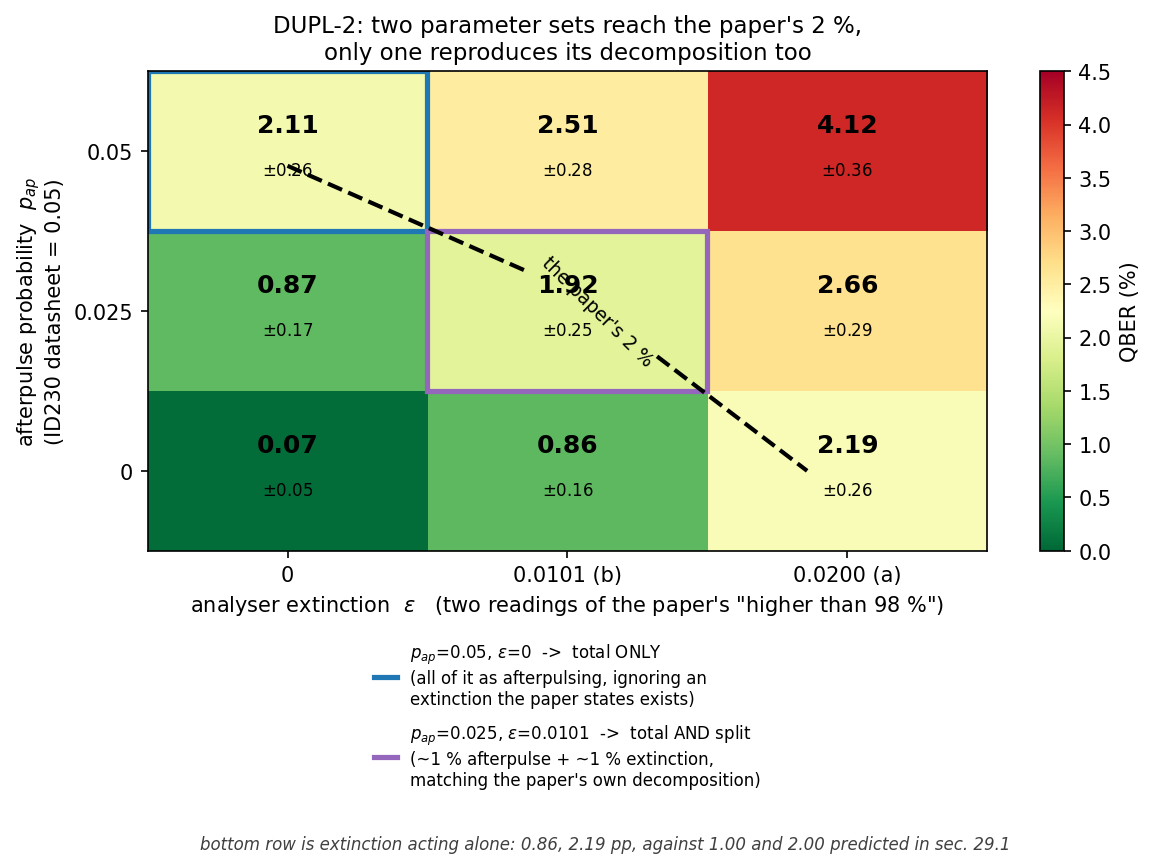
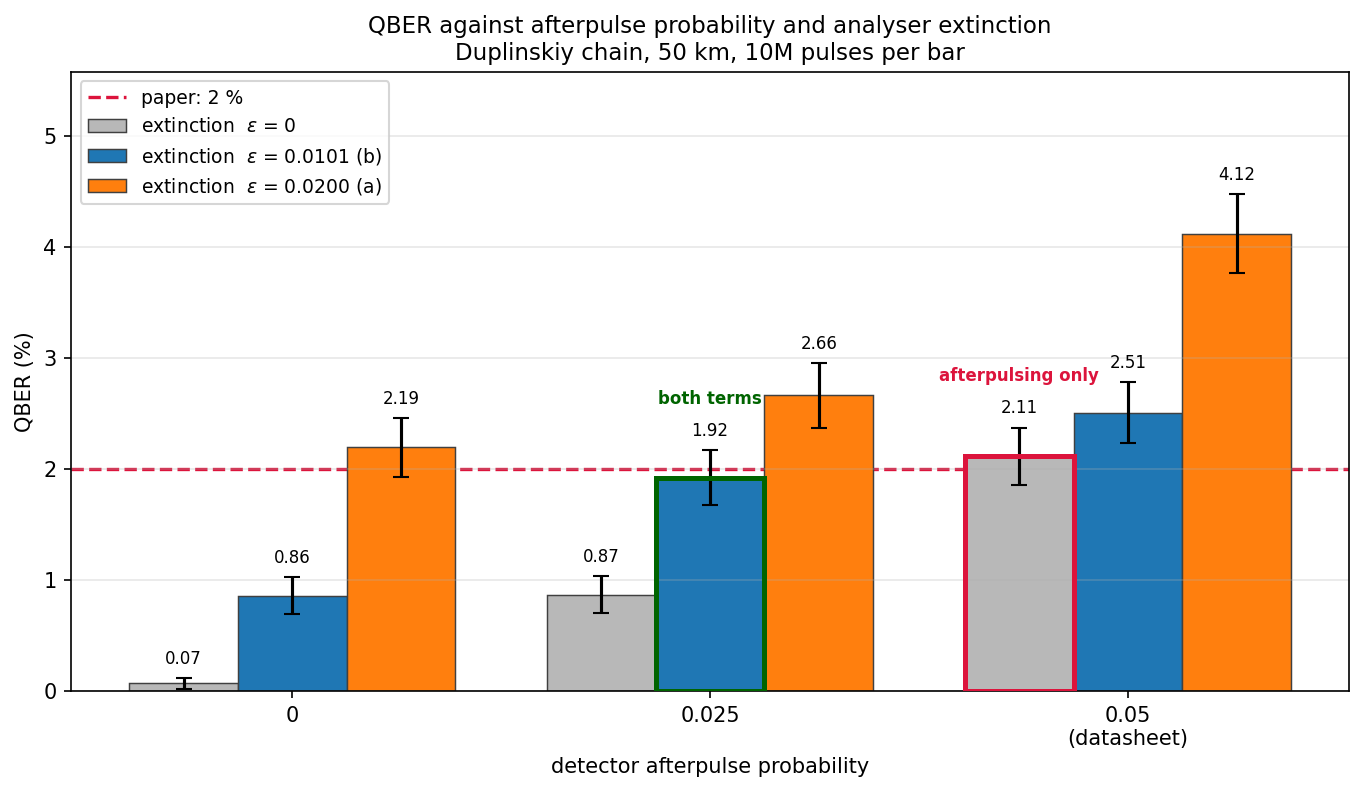
DUPL: describe the figures instead of arguing in them
Presentation only; no measurement changes.

Titles now say what each graph is rather than what it is meant to
persuade you of. "Two different settings both give the error rate the
paper reports / Only one of them gets there for the right reasons"
becomes "QBER against afterpulse probability and analyser extinction".
"Does only the SIZE of the miss matter, or what caused it?" becomes "QBER
against compensation residual". The reasoning belongs in sections 31 and
32, not on the axes.

The extinction plot was a heatmap, which was the wrong form: nine numbers
WITH error bars are a bar chart, and a heatmap hides the uncertainty while
needing an inline contour label to show where 2 % falls -- which reads
badly over coloured cells. Now grouped bars with error bars and the
paper's rate as a horizontal line. The two bars that reach it are ringed
and labelled "afterpulsing only" and "both terms"; the three-line
explanations are gone.

An earlier version of that figure also put an annotation at y=2.62 where
imshow's ylim is (-0.5, 2.5), so it rendered outside the axes entirely.
Found by checking the limits rather than assuming the coordinates were
fine.

diff --git a/analysis/validation/validate_duplinskiy_extinction.py b/analysis/validation/validate_duplinskiy_extinction.py
@@ -310,72 +310,51 @@ def _figure(cells):
         return
 
     eps_vals = [e for _, e in EPSILONS]
-    grid = np.array([[cells[(p, e)][0] * 100 for e in eps_vals]
-                     for p in P_APS])
-    sig = np.array([[cells[(p, e)][1] * 100 for e in eps_vals]
-                    for p in P_APS])
+    q = np.array([[cells[(p, e)][0] * 100 for e in eps_vals] for p in P_APS])
+    sg = np.array([[cells[(p, e)][1] * 100 for e in eps_vals] for p in P_APS])
 
-    fig, ax = plt.subplots(figsize=(8.2, 5.6))
-    im = ax.imshow(grid, cmap='RdYlGn_r', origin='lower', aspect='auto',
-                   vmin=0, vmax=max(4.5, grid.max()))
-    cb = fig.colorbar(im, ax=ax)
-    cb.set_label('QBER (%)')
+    # Grouped bars, not a heatmap.  Nine numbers with error bars are a bar
+    # chart; a heatmap hides the uncertainty and needs a contour label to
+    # show where 2 % falls, which reads badly over coloured cells.
+    fig, ax = plt.subplots(figsize=(9.2, 5.4))
+    width = 0.26
+    xs = np.arange(len(P_APS))
+    colours = ['0.72', 'tab:blue', 'tab:orange']
 
-    # The paper's 2 % as a contour, so which cells reach it is visual
-    # rather than something the reader computes from the numbers.
-    xs = np.arange(len(eps_vals))
-    ys = np.arange(len(P_APS))
-    cs = ax.contour(xs, ys, grid, levels=[2.0], colors='k',
-                    linewidths=2.0, linestyles='--')
-    ax.clabel(cs, fmt={2.0: "the paper's 2 %"}, fontsize=9)
+    for j, (lab, _) in enumerate(EPSILONS):
+        off = (j - 1) * width
+        ax.bar(xs + off, q[:, j], width, yerr=sg[:, j], capsize=4,
+               color=colours[j], edgecolor='0.25', linewidth=0.7,
+               label=f'extinction  $\\epsilon$ = {lab}')
+        for i in xs:
+            ax.text(i + off, q[i, j] + sg[i, j] + 0.13, f'{q[i, j]:.2f}',
+                    ha='center', fontsize=8)
 
-    for i, p in enumerate(P_APS):
-        for j, e in enumerate(eps_vals):
-            ax.text(j, i + 0.16, f"{grid[i, j]:.2f}", ha='center',
-                    va='center', fontsize=12, fontweight='bold')
-            ax.text(j, i - 0.12, f"$\\pm${sig[i, j]:.2f}", ha='center',
-                    va='center', fontsize=8)
+    ax.axhline(2.0, color='crimson', ls='--', lw=1.6, zorder=0,
+               label='paper: 2 %')
 
-    # The two cells that land on 2 %, and the distinction between them.
-    # Boxed and explained in a legend rather than with arrows: a 3x3 grid
-    # leaves no room for callouts that do not collide with the cell values,
-    # and the first attempt put one outside the axes entirely.
-    boxes = [
-        ((-0.5, 1.5), 'tab:blue',
-         "$p_{ap}$=0.05, $\\epsilon$=0  ->  total ONLY\n"
-         "(all of it as afterpulsing, ignoring an\n"
-         "extinction the paper states exists)"),
-        ((0.5, 0.5), 'tab:purple',
-         "$p_{ap}$=0.025, $\\epsilon$=0.0101  ->  total AND split\n"
-         "(~1 % afterpulse + ~1 % extinction,\n"
-         "matching the paper's own decomposition)"),
-    ]
-    handles = []
-    for (xy, colour, label) in boxes:
-        ax.add_patch(plt.Rectangle(xy, 1, 1, fill=False, edgecolor=colour,
-                                   lw=2.5))
-        handles.append(plt.Line2D([], [], color=colour, lw=2.5, label=label))
-    ax.legend(handles=handles, loc='upper center',
-              bbox_to_anchor=(0.5, -0.16), fontsize=8, frameon=False,
-              handlelength=1.4, labelspacing=0.9)
+    # Ring the two bars that reach the paper's rate, labelled with what
+    # each attributes the error to.  Two or three words; the reasoning
+    # belongs in sec. 32.4, not on the axes.
+    for (i, j, colour, tag) in ((2, 0, 'crimson', 'afterpulsing only'),
+                                (1, 1, 'darkgreen', 'both terms')):
+        x = xs[i] + (j - 1) * width
+        ax.bar(x, q[i, j], width, fill=False, edgecolor=colour,
+               linewidth=2.4, zorder=5)
+        ax.text(x, q[i, j] + sg[i, j] + 0.42, tag, ha='center', fontsize=8,
+                color=colour, fontweight='bold')
 
     ax.set_xticks(xs)
-    ax.set_xticklabels([lab for lab, _ in EPSILONS])
-    ax.set_yticks(ys)
-    ax.set_yticklabels([f"{p:g}" for p in P_APS])
-    ax.set_xlabel('analyser extinction  $\\epsilon$   '
-                  '(two readings of the paper\'s "higher than 98 %")')
-    ax.set_ylabel('afterpulse probability  $p_{ap}$\n(ID230 datasheet = 0.05)')
-    ax.set_title('DUPL-2: two parameter sets reach the paper\'s 2 %,\n'
-                 'only one reproduces its decomposition too', fontsize=11)
-
-    # Bottom row is extinction acting alone, against sec. 29.1's prediction.
-    # Placed in figure coordinates so it cannot collide with the cells.
-    e_only = ", ".join(f"{grid[0, j]:.2f}" for j in range(1, len(eps_vals)))
-    fig.text(0.5, -0.02,
-             f"bottom row is extinction acting alone: {e_only} pp, "
-             "against 1.00 and 2.00 predicted in sec. 29.1",
-             ha='center', fontsize=8, style='italic', color='0.25')
+    ax.set_xticklabels([f'{p:g}' + ('\n(datasheet)' if p == 0.05 else '')
+                        for p in P_APS])
+    ax.set_xlabel('detector afterpulse probability')
+    ax.set_ylabel('QBER (%)')
+    ax.set_ylim(0, max(5.2, (q + sg).max() + 1.1))
+    ax.set_title('QBER against afterpulse probability and analyser '
+                 'extinction\nDuplinskiy chain, 50 km, 10M pulses per bar',
+                 fontsize=11)
+    ax.grid(True, axis='y', alpha=0.3)
+    ax.legend(fontsize=9, loc='upper left')
 
     fig.tight_layout()
     png = os.path.join(OUT_DIR, 'val_duplinskiy_extinction.png')

diff --git a/analysis/validation/validate_duplinskiy_drift.py b/analysis/validation/validate_duplinskiy_drift.py
@@ -340,10 +340,10 @@ def _figure(temp_rows, bend_rows):
     ax[0].axhspan(0, 2.0, color='tab:green', alpha=0.12,
                   label="paper's ~2 % QBER")
     ax[0].set_xscale('log')
-    ax[0].set_xlabel('temperature CHANGE since Bob calibrated,  '
+    ax[0].set_xlabel('temperature change since calibration,  '
                      r'$\Delta T$ (C)')
     ax[0].set_ylabel('QBER (%)')
-    ax[0].set_title('how much warming the link can absorb\n'
+    ax[0].set_title('QBER against temperature drift\n'
                     '(dotted = undrifted floor)', fontsize=10)
     ax[0].grid(True, alpha=0.3)
     ax[0].legend(fontsize=8)
@@ -362,10 +362,10 @@ def _figure(temp_rows, bend_rows):
     ax[1].axhspan(0, 2.0, color='tab:green', alpha=0.12)
     ax[1].set_xscale('log')
     ax[1].invert_xaxis()
-    ax[1].set_xlabel('bend radius R (m)   ->  tighter bend to the right')
+    ax[1].set_xlabel('bend radius R (m),  tighter to the right')
     ax[1].set_ylabel('QBER (%)')
-    ax[1].set_title(f'a bend applied after calibrating straight\n{km0} km',
-                    fontsize=10)
+    ax[1].set_title(f'QBER against bend radius\n'
+                    f'{km0} km, calibrated straight', fontsize=10)
     ax[1].grid(True, alpha=0.3)
 
     # --- panel 3: both mechanisms against how far compensation missed ----
@@ -379,16 +379,15 @@ def _figure(temp_rows, bend_rows):
     ax[2].axhspan(0, 2.0, color='tab:green', alpha=0.12)
     ax[2].set_xlabel('compensation residual  '
                      r'$\|U_{cal}J_{op}-I\|_F$'
-                     '\n0 = Bob inverts the channel exactly,  '
-                     '~2.2 = fully scrambled')
+                     '\n0 = exact inverse,  ~2.2 = fully scrambled')
     ax[2].set_ylabel('QBER (%)')
-    ax[2].set_title('does only the SIZE of the miss matter,\n'
-                    'or what caused it?', fontsize=10)
+    ax[2].set_title('QBER against compensation residual\n'
+                    'both mechanisms', fontsize=10)
     ax[2].grid(True, alpha=0.3)
     ax[2].legend(fontsize=8)
 
-    fig.suptitle('Duplinskiy: polarisation compensation is exact until the '
-                 'channel moves under it', fontsize=11)
+    fig.suptitle('Duplinskiy chain: QBER against post-calibration drift',
+                 fontsize=11)
     fig.tight_layout()
     png = os.path.join(OUT_DIR, 'val_duplinskiy_drift.png')
     fig.savefig(png, dpi=150, bbox_inches='tight')
